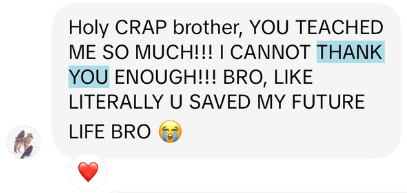
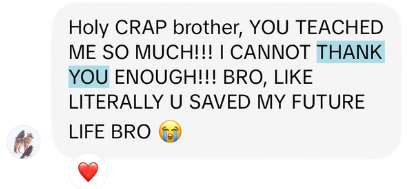
Crop gray line off bottom of r02 and r03 reviews
Claude-Session: https://claude.ai/code/session_019VajvdXMWmseeJRhHBZSah

diff --git a/index.html b/index.html
@@ -96,7 +96,7 @@
         <h2 class="pc-h2">Men I have helped.</h2>
         <div class="pc-carousel" aria-roledescription="carousel" aria-label="Messages from men I've helped">
           <ul class="pc-reviews" tabindex="0">
-            <li class="pc-review"><img src="/images/reviews/r02.png?v=3" alt="Message from a man Sean helped" loading="lazy" /></li>
+            <li class="pc-review"><img src="/images/reviews/r02.png?v=4" alt="Message from a man Sean helped" loading="lazy" /></li>
             <li class="pc-review"><img src="/images/reviews/r01.png?v=3" alt="Message from a man Sean helped" loading="lazy" /></li>
             <li class="pc-review"><img src="/images/reviews/r15.png?v=4" alt="Message from a man Sean helped" loading="lazy" /></li>
             <li class="pc-review"><img src="/images/reviews/r17.png?v=4" alt="Message from a man Sean helped" loading="lazy" /></li>
@@ -106,7 +106,7 @@
             <li class="pc-review"><img src="/images/reviews/r07.png?v=2" alt="Message from a man Sean helped" loading="lazy" /></li>
             <li class="pc-review"><img src="/images/reviews/r10.png?v=2" alt="Message from a man Sean helped" loading="lazy" /></li>
             <li class="pc-review"><img src="/images/reviews/r11.png?v=2" alt="Message from a man Sean helped" loading="lazy" /></li>
-            <li class="pc-review"><img src="/images/reviews/r03.png?v=2" alt="Message from a man Sean helped" loading="lazy" /></li>
+            <li class="pc-review"><img src="/images/reviews/r03.png?v=3" alt="Message from a man Sean helped" loading="lazy" /></li>
           </ul>
           <div class="pc-carousel-nav">
             <button type="button" class="pc-arrow pc-prev" aria-label="Previous message">&#8249;</button>
